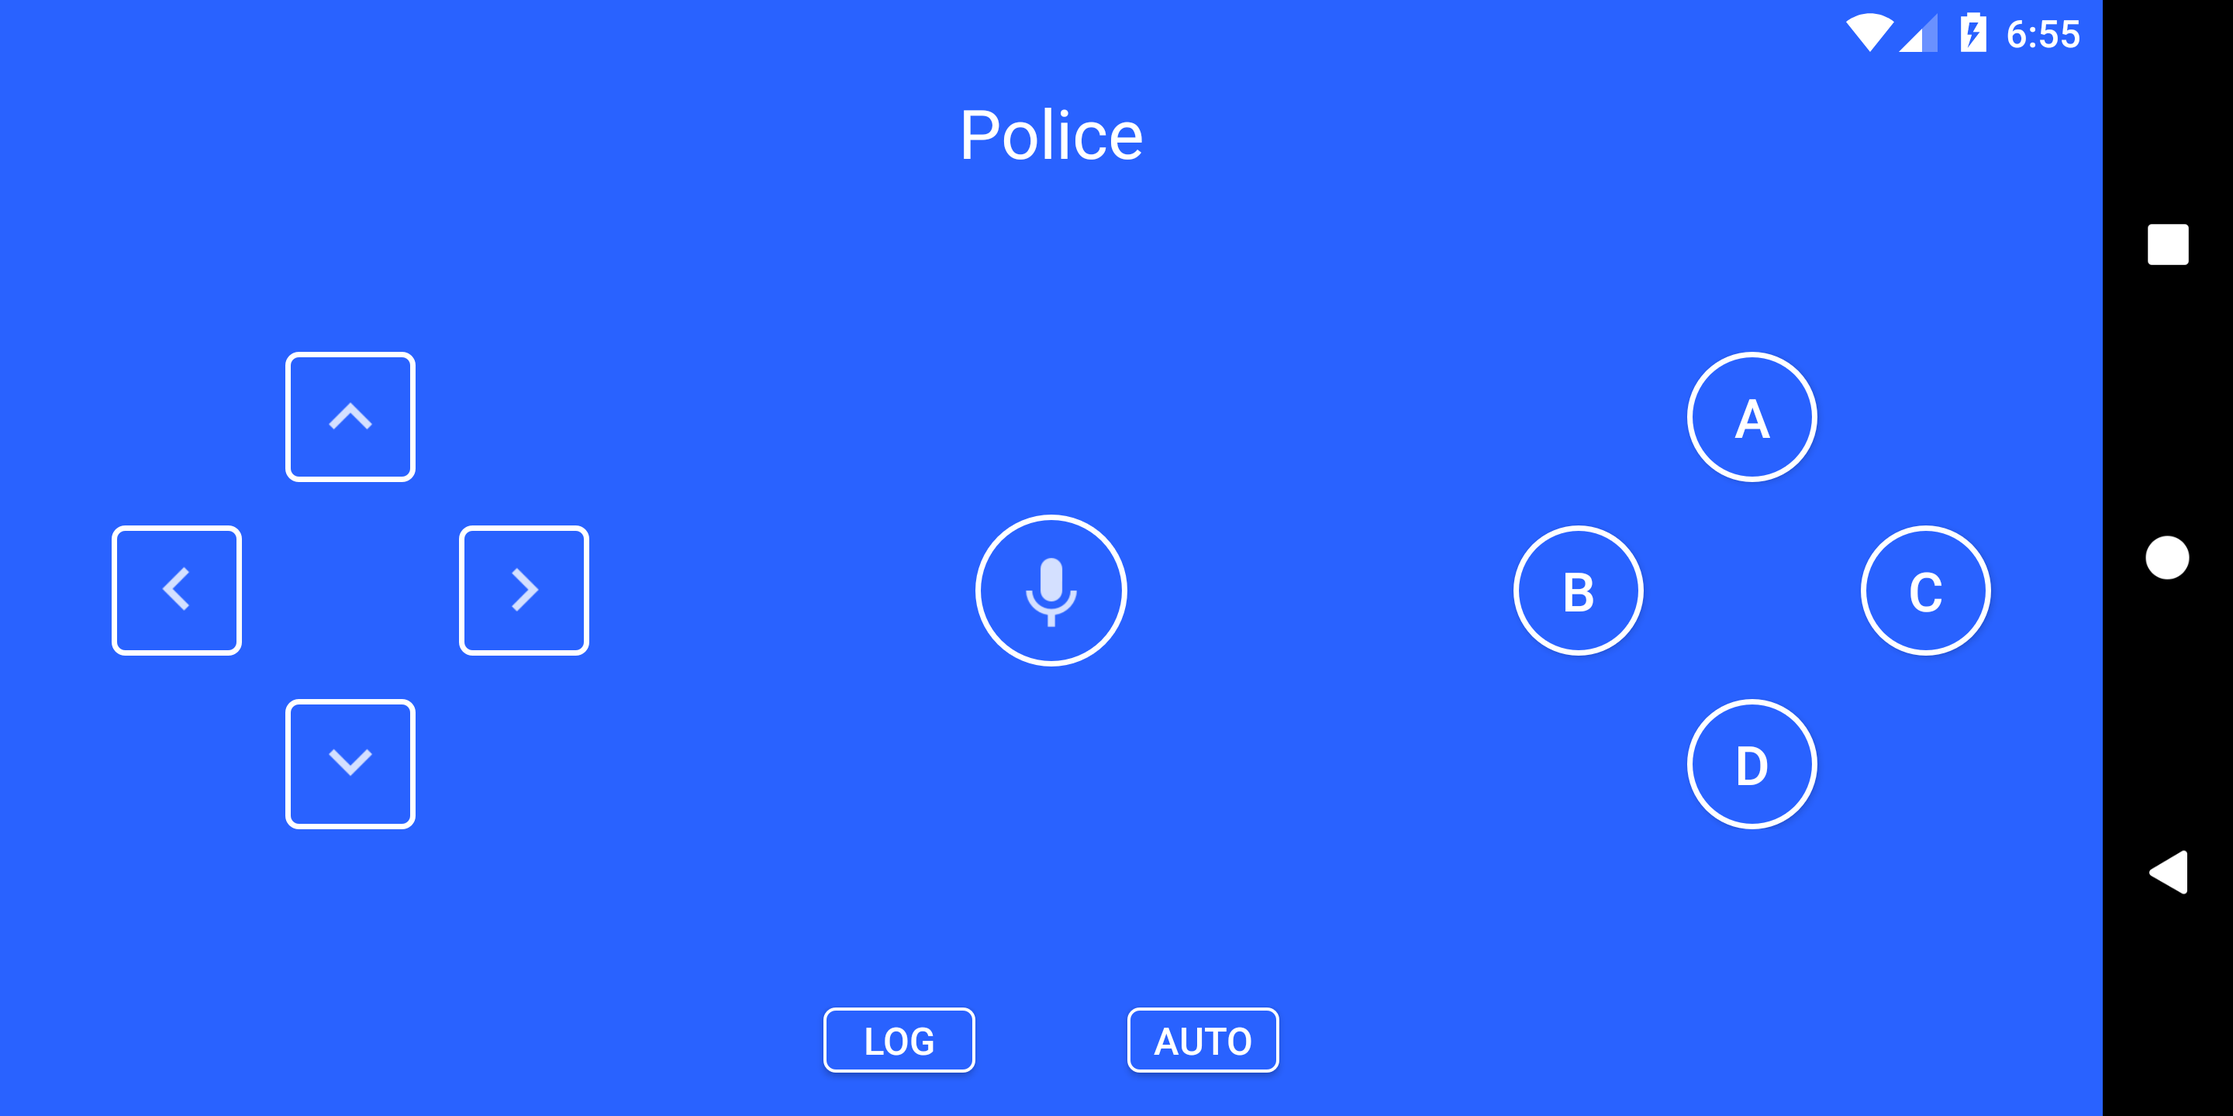
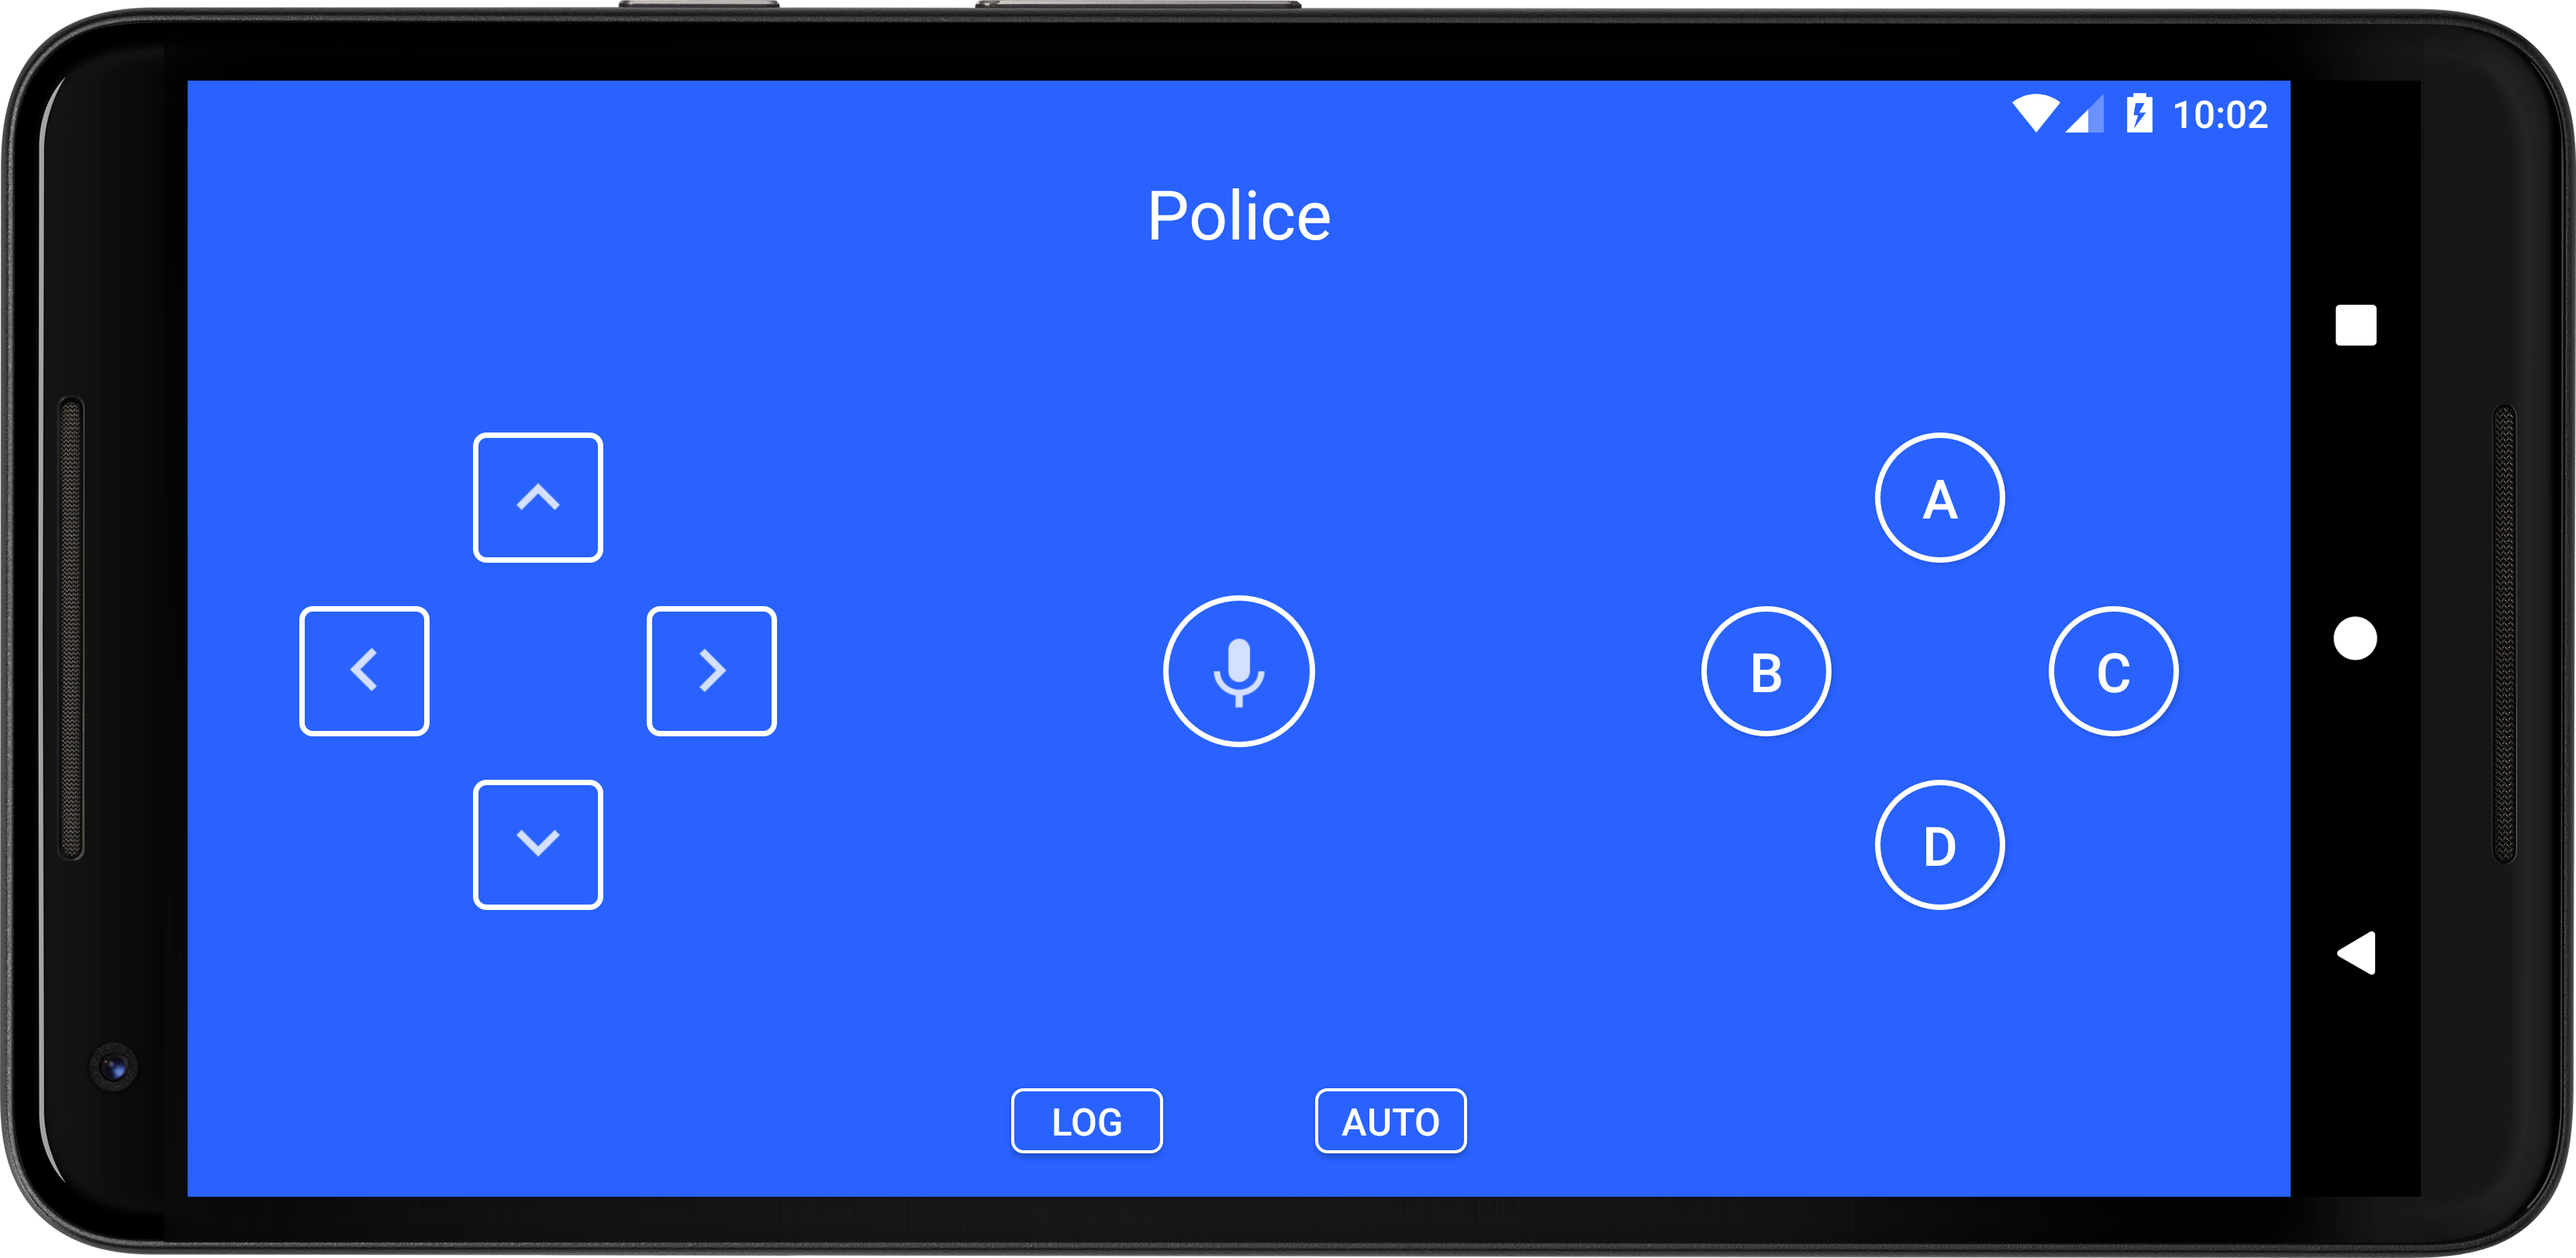
use Pixel 2 XL frame in screenshot

diff --git a/controller-application/Police/app/src/main/java/io/github/xei/police/util/TestClass.java b/controller-application/Police/app/src/main/java/io/github/xei/police/util/TestClass.java
@@ -1,0 +1,4 @@
+package io.github.xei.police.util;
+
+public class TestClass {
+}
